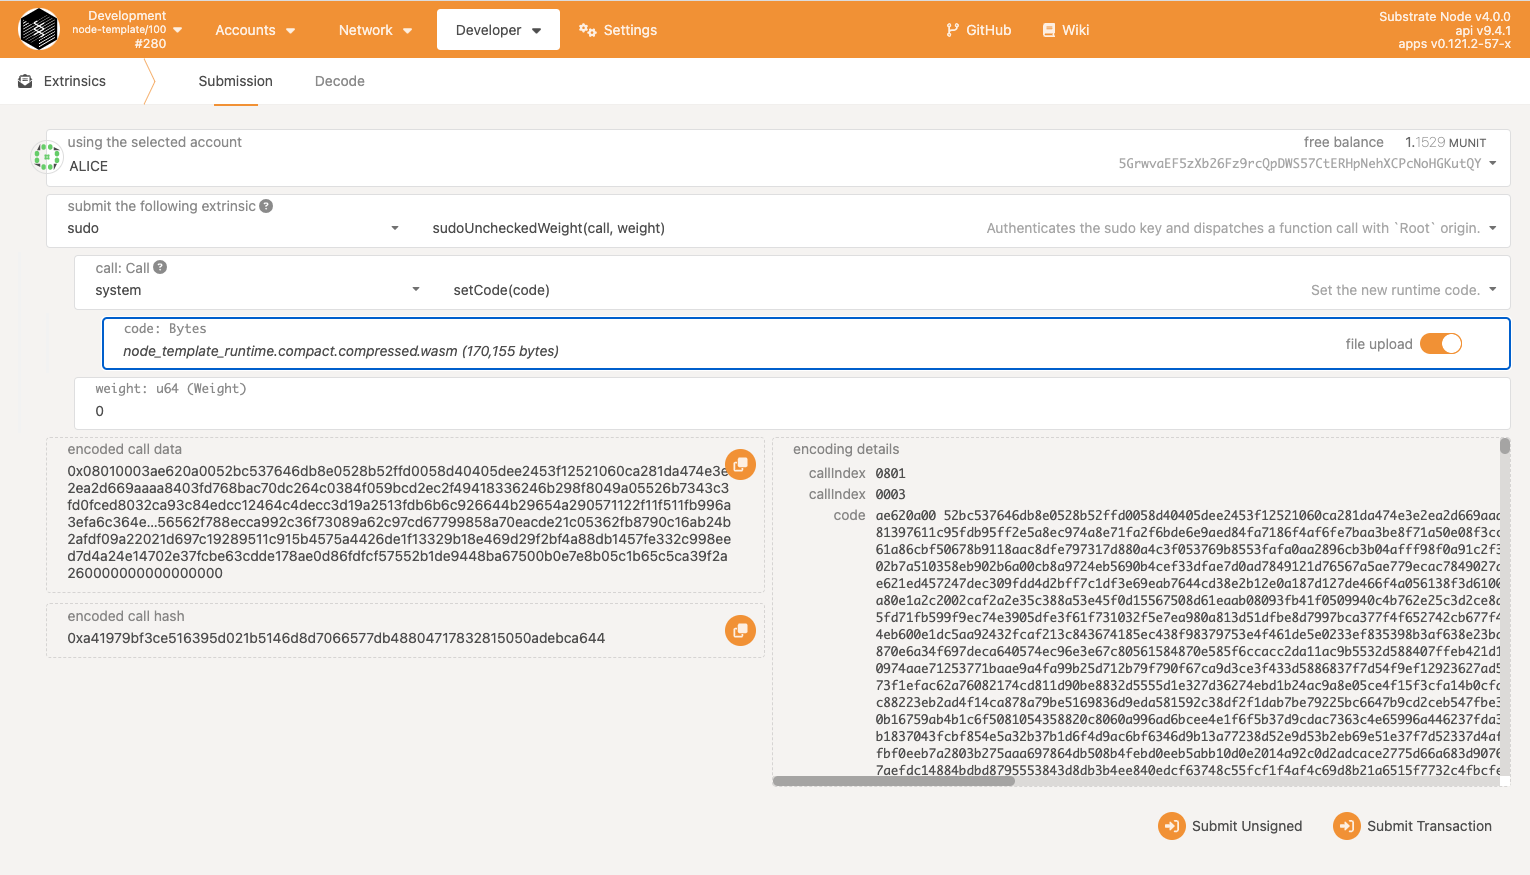
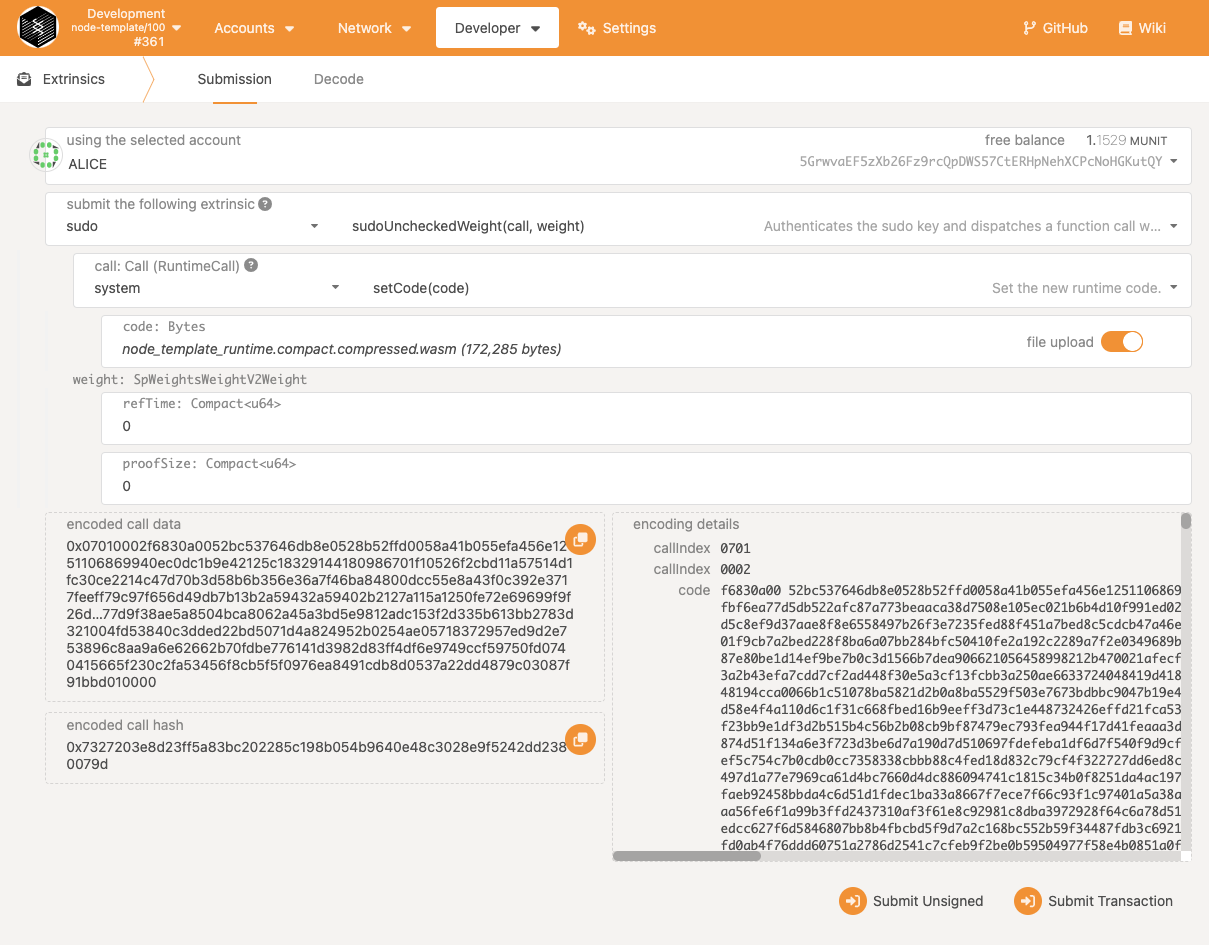
updates to upgrade tutorial

Changed region(s): [[0.0, 0.0, 1.0, 0.9874]]

diff --git a/content/md/en/docs/tutorials/get-started/upgrade-a-running-network.md b/content/md/en/docs/tutorials/get-started/upgrade-a-running-network.md
@@ -188,16 +188,16 @@ To add the Scheduler types and configuration trait:
 
    ```rust
    impl pallet_scheduler::Config for Runtime {
-     type RuntimeEvent = RuntimeEvent;
-     type RuntimeOrigin = RuntimeOrigin;
-     type PalletsOrigin = OriginCaller;
-     type RuntimeCall = RuntimeCall;
-     type MaximumWeight = MaximumSchedulerWeight;
-     type ScheduleOrigin = frame_system::EnsureRoot<AccountId>;
-     type MaxScheduledPerBlock = MaxScheduledPerBlock;
-     type WeightInfo = pallet_scheduler::weights::SubstrateWeight<Runtime>;
-     type OriginPrivilegeCmp = EqualPrivilegeOnly;
-     type Preimages = Preimage;
+      type RuntimeEvent = RuntimeEvent;
+      type RuntimeOrigin = RuntimeOrigin;
+      type PalletsOrigin = OriginCaller;
+      type RuntimeCall = RuntimeCall;
+      type MaximumWeight = MaximumSchedulerWeight;
+      type ScheduleOrigin = frame_system::EnsureRoot<AccountId>;
+      type MaxScheduledPerBlock = MaxScheduledPerBlock;
+      type WeightInfo = ();
+      type OriginPrivilegeCmp = EqualPrivilegeOnly;
+      type Preimages = ();
    }
    ```
 
@@ -254,9 +254,10 @@ To add the Scheduler types and configuration trait:
    - `impl_version` specifies the version of the outer node client.
    - `apis` specifies the list of supported APIs.
    - `transaction_version` specifies the version of the [dispatchable function](/reference/glossary#dispatch) interface.
+   - `state_version` specifies the version of the key-value trie data structure that the runtime uses.
 
    To upgrade the runtime, you must _increase_ the `spec_version`.
-   For more information, see the [FRAME System](https://github.com/paritytech/substrate/tree/master/frame/system) module and [`can_set_code`](https://github.com/paritytech/substrate/blob/master/frame/system/src/lib.rs#L1566) function.
+   For more information, see the [FRAME System](https://github.com/paritytech/substrate/tree/master/frame/system/src/lib.rs) module and the `can_set_code` method.
 
 5.  Save your changes and close the `runtime/src/lib.rs` file.
 
@@ -301,11 +302,11 @@ To update the network with the upgraded runtime:
    
 4. Select **system** and **setCode(code)** as the call to make using the Alice account.
 
-5. Click **file upload**, then select or drag and drop the compact and compressed WebAssembly file—`node_template_runtime.compact.compressed.wasm`—that you generated for the runtime.
+5. Click **file upload**, then select or drag and drop the compact and compressed WebAssembly file—`node_template_runtime.compact.compressed.wasm`—that you generated for the updated runtime.
 
    For example, navigate to the `target/release/wbuild/node-template-runtime` directory and select `node_template_runtime.compact.compressed.wasm` as the file to upload.
 
-6. Leave both of the **weight** parameters with the default value of `0`.
+6. Leave both of the **weight** parameters set to the default value of `0`.
 
    ![Runtime upgrade settings](/media/images/docs/tutorials/forkless-upgrade/set-code-transaction.png)
 
@@ -359,6 +360,7 @@ To modify the value of the existential deposit for a runtime upgrade:
       impl_version: 1,
       apis: RUNTIME_API_VERSIONS,
       transaction_version: 1,
+      state_version: 1,
    };
 
 1. Update the value for the EXISTENTIAL_DEPOSIT for the Balances pallet.
@@ -377,7 +379,7 @@ To modify the value of the existential deposit for a runtime upgrade:
 1. Build the upgraded runtime by running the following command:
    
    ```bash
-   cargo build --release -p node-template-runtime
+   cargo build --release --package node-template-runtime
    ```
    
    This command generates a new set of build artifacts, overwriting the previous set of build artifacts.
@@ -399,22 +401,26 @@ To schedule the runtime upgrade:
 
 3. Select **scheduler** and **schedule(when, maybePeriodic, priority, call)**.
 
-   - Use the default values for the **maybePeriodic** (empty) and **priority** (0) parameters.
+   - Notice that the **when** parameter specifies a block number for performing the scheduled operation.
+   - The **maybePeriodic** parameter is optional, so you can use the default value (empty)
+   - Use the default value (0) for the **priority**  parameter.
    - Select **system** and **setCode(code)** as the call.
-   - Click **file upload** and select the compressed WebAssembly file you generated for the runtime.
+   - Click **file upload** and select the compressed WebAssembly file you generated for the updated runtime.
 
-1. Check the current block number and set the **when** parameter to a block number 10 to 20 blocks from the current block, then click **Submit Sudo**.
+4. Check the current block number and set the **when** parameter to a block number 10 to 20 blocks from the current block, then click **Submit Sudo**.
    
-   ![Settings to schedule a runtime upgrade](/media/images/docs/tutorials/forkless-upgrade/sudo-schedule-upgrade.png)
+   ![Settings to schedule a runtime upgrade](/media/images/docs/tutorials/forkless-upgrade/sudo-scheduler-upgrade.png)
 
-2. Review the authorization and click **Sign and Submit**.
+5. Review the authorization and click **Sign and Submit**.
 
-1. Monitor block production in the terminal or the [Network Explorer](https://polkadot.js.org/apps/#/explorer?rpc=ws://127.0.0.1:9944) to watch as this scheduled call takes place.
+6. Monitor block production in the terminal or the [Network Explorer](https://polkadot.js.org/apps/#/explorer?rpc=ws://127.0.0.1:9944) to watch as this scheduled call takes place.
    
    After the target block has been included in the chain, the node template version number indicates that the runtime version is now `102`.
 
-2. Verify the constant value by querying the chain state in the the [Polkadot/Substrate Portal](https://polkadot.js.org/apps/#/chainstate/constants?rpc=ws://127.0.0.1:9944).
+7. Verify the constant value by querying the chain state in the [Polkadot/Substrate Portal](https://polkadot.js.org/apps/#/chainstate/constants?rpc=ws://127.0.0.1:9944).
    
+   - Click **Developer** and select **Chain state**.
+   - Click **Constants**.
    - Select the **balances** pallet.
    - Select **existentialDeposit** as the constant value as the value to query.
 
@@ -424,5 +430,4 @@ To schedule the runtime upgrade:
 
 - [Storage migrations](/build/upgrade-the-runtime/#storage-migration)
   <!-- TODO NAV.YAML -->
-  <!-- add  back ABOVE -->
   <!-- - [How-to: Storage migration](/reference/how-to-guides/basics/storage-migration/) -->
